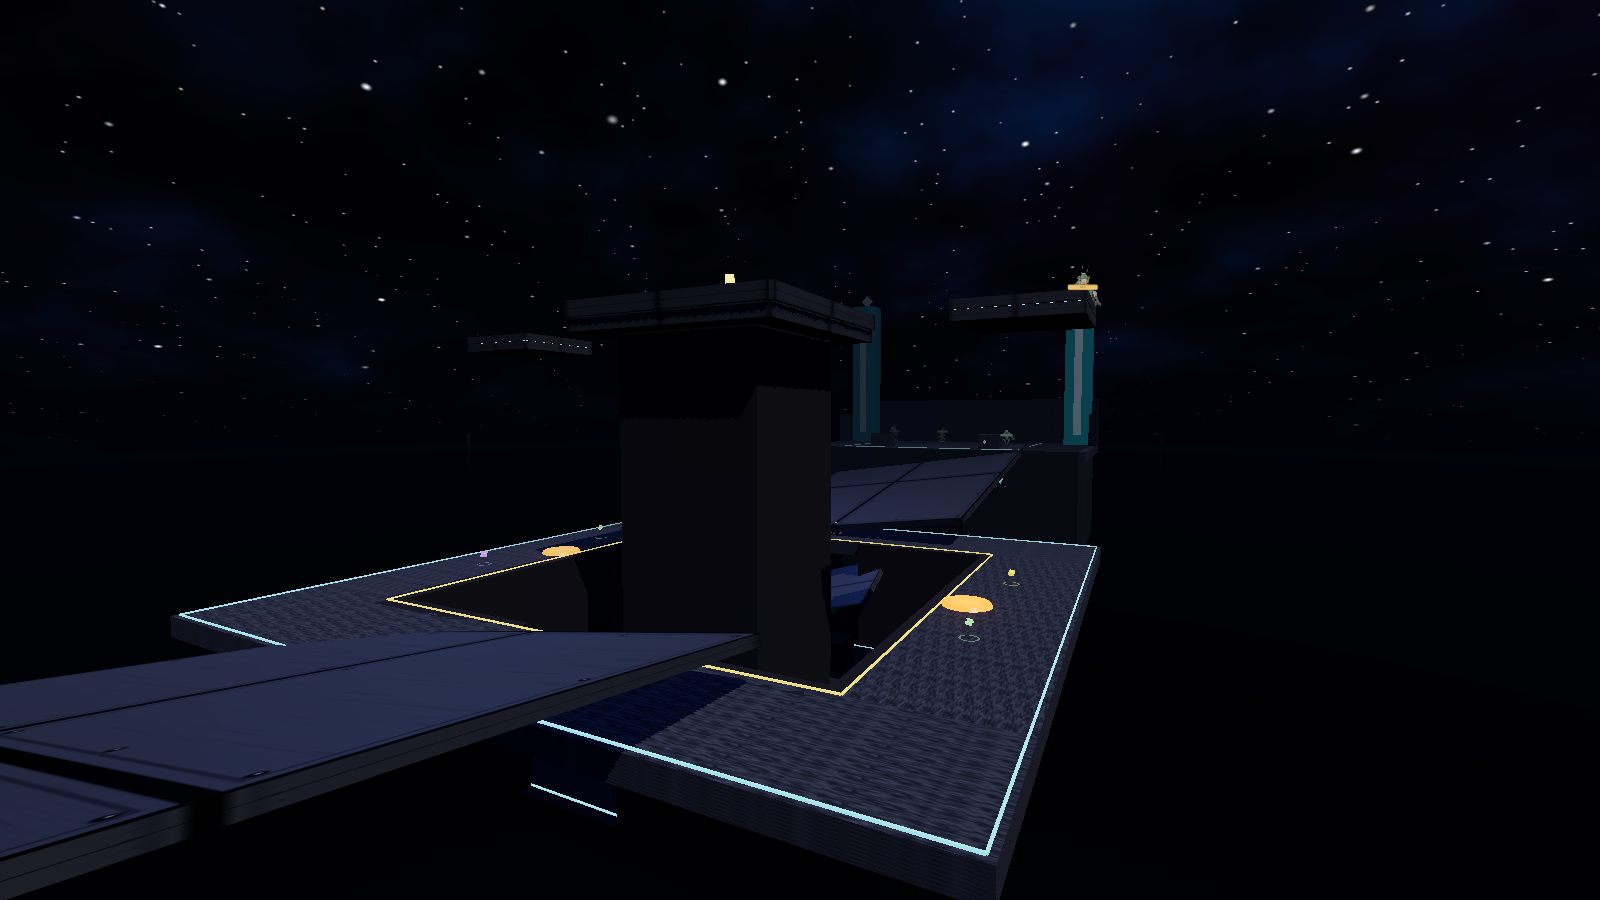
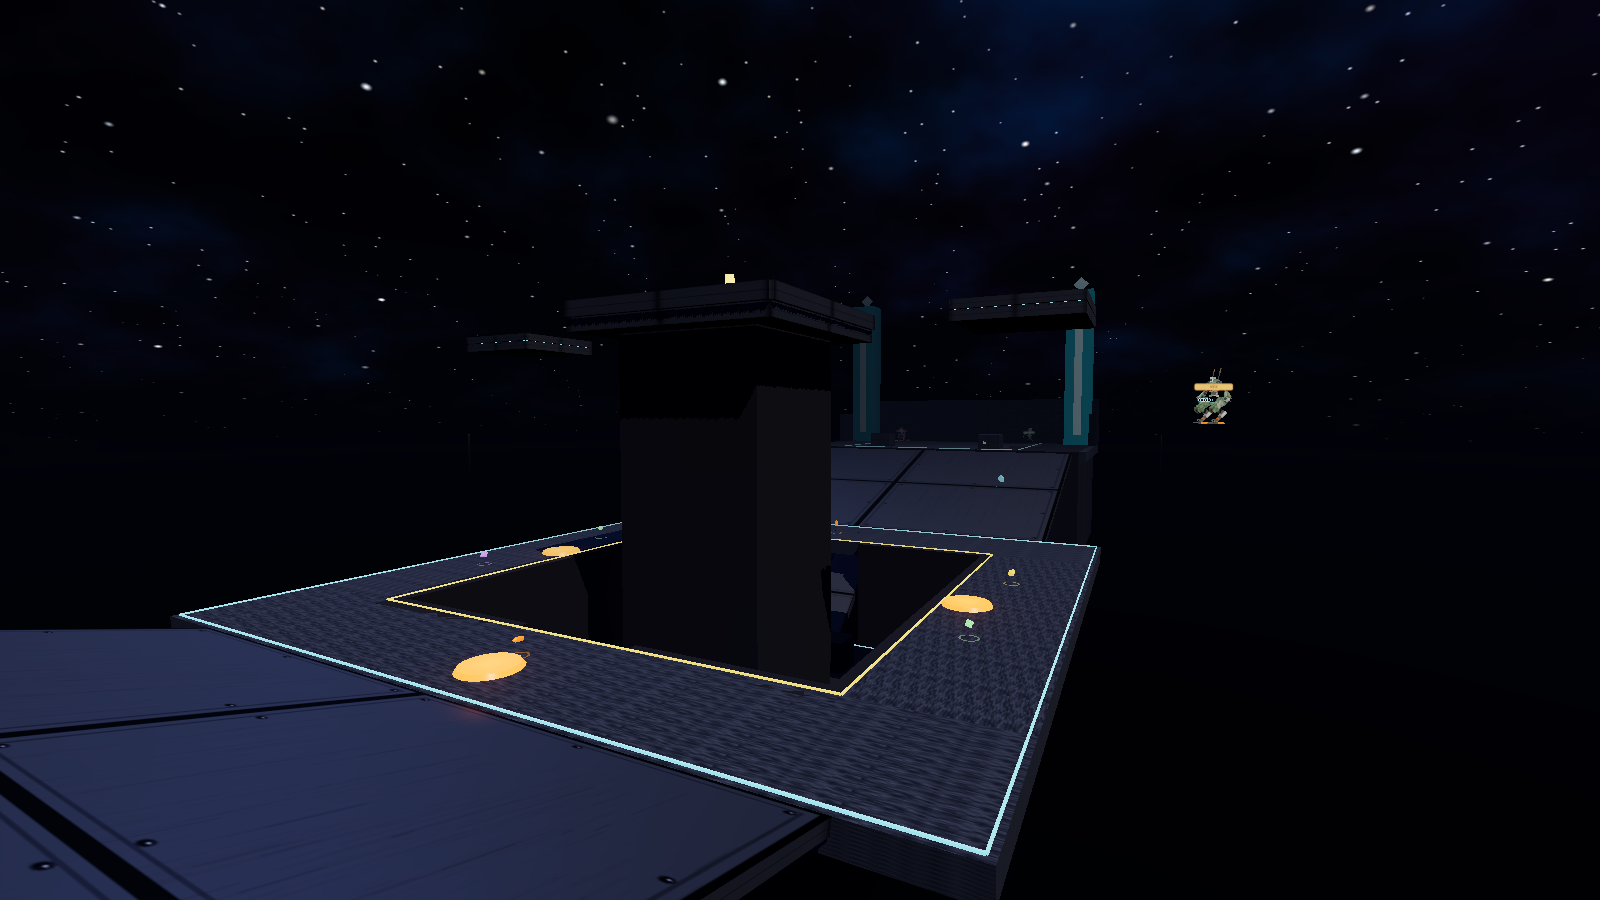
Feature/qol and perf (#16)
* Fix bots shooting through walls and tone down bot difficulty

Server bots fired on distance alone with no line-of-sight test, so online
bots shot and killed through walls. Add 2D wall geometry to the Cash Raid
maps and gate bot fire on a segment/AABB LOS check. Also reduce bot skill on
both client and server: more aim error + looser fire cone, slower aim
tracking, longer reaction, and re-arm the reaction delay each time a bot
regains sight (so re-peeking cover no longer triggers an instant snap shot).

* Rework The Atrium into a multi-tier Citadel-style map; refresh screenshots

The Atrium was a single flat plane of decks over the void. Rebuild it as a
UT2003-Citadel-style arena with four stacked tiers: two elevated mountain
bases, a wide solid causeway from each base down to a central island ring, a
playable sunken valley beneath the citadel spire, and the spire crown (amp) up
top. Update the map registry blurb and bot waypoints to match.

Also refresh the README screenshots: add Deathmatch/Atrium shots and replace
the Cash Raid shots with art-pass-current captures.

* Fix Atrium causeway fall-through (right-handed ramp basis)

ramp() built its orientation from a left-handed basis (fwd, up, right with
fwd x up = -right), so setFromRotationMatrix() returned a bogus quaternion and
the static collider was mis-oriented relative to the visible mesh. The error
is tiny on the narrow existing ramps but, on the Atrium's 48-wide causeway, it
[…]

diff --git a/src/arena/Arena.ts b/src/arena/Arena.ts
@@ -351,8 +351,13 @@ export class Arena {
   protected ramp(start: THREE.Vector3, end: THREE.Vector3, width: number) {
     const thickness = 0.7;
     const fwd = end.clone().sub(start).normalize();
-    const right = new THREE.Vector3().crossVectors(new THREE.Vector3(0, 1, 0), fwd).normalize();
-    const up = new THREE.Vector3().crossVectors(fwd, right).normalize();
+    // Build a RIGHT-HANDED basis (fwd, up, right): column order must satisfy
+    // fwd × up = right. A left-handed basis makes setFromRotationMatrix() return
+    // a bogus quaternion, so the collider ends up mis-oriented vs the mesh —
+    // unnoticeable on narrow ramps, but it tears fall-through gaps in wide ones
+    // (e.g. the Atrium causeway). Keep these crosses in this exact order.
+    const right = new THREE.Vector3().crossVectors(fwd, new THREE.Vector3(0, 1, 0)).normalize();
+    const up = new THREE.Vector3().crossVectors(right, fwd).normalize();
     const length = end.distanceTo(start);
     const center = start.clone().add(end).multiplyScalar(0.5).addScaledVector(up, -thickness / 2);
 